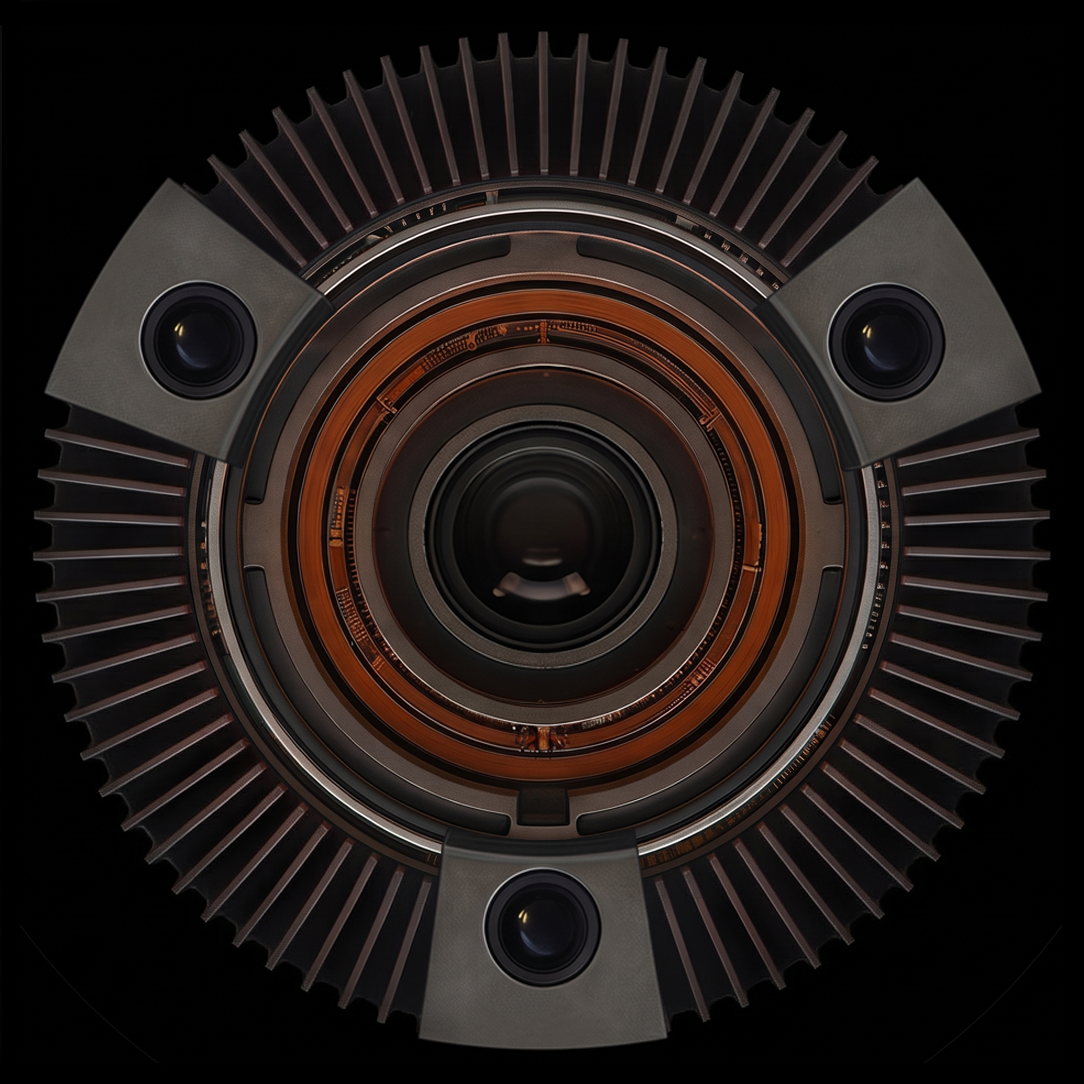
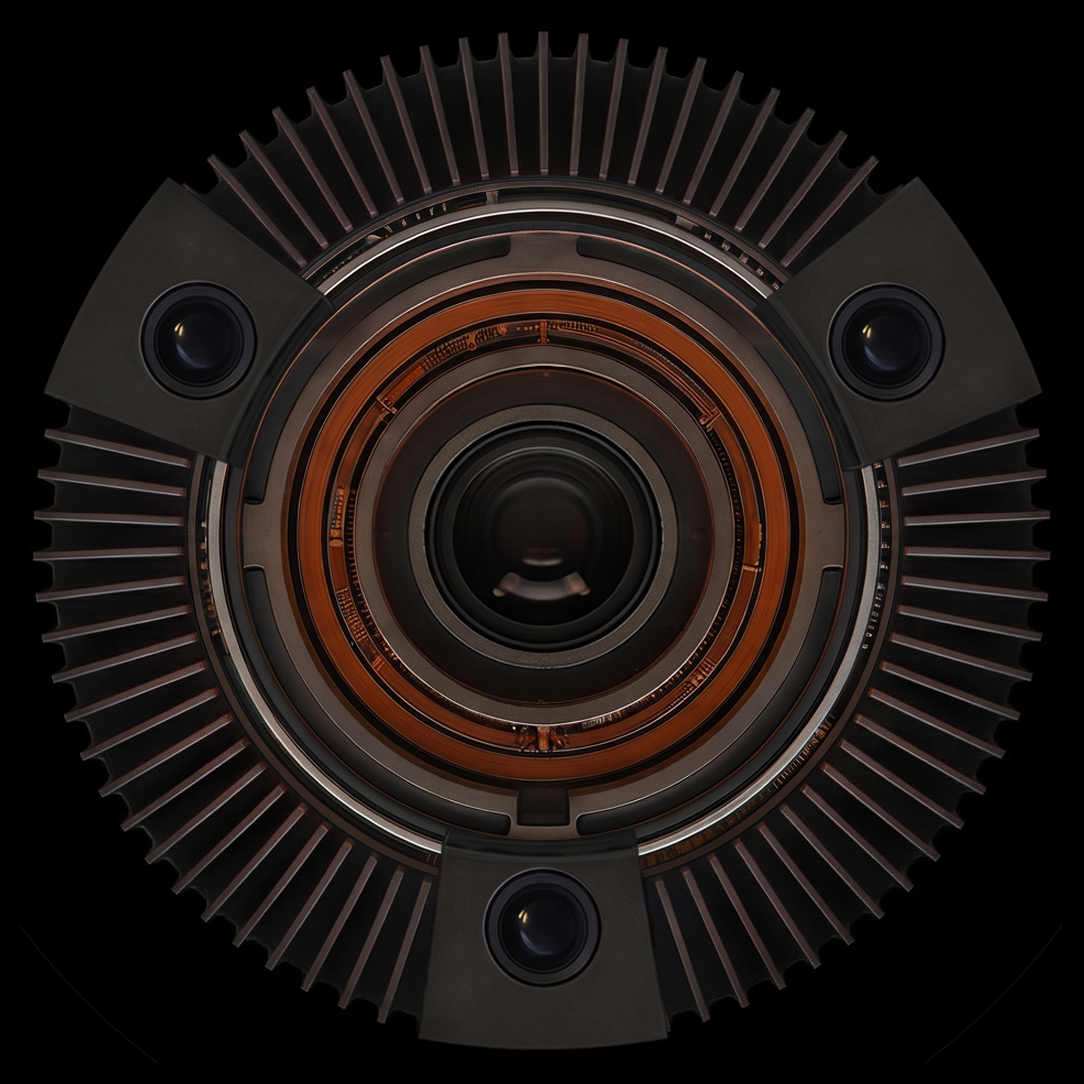
feat: update hal2026_everything_off.png in public & dist, add cache-busting query parameter to force browser refresh

Changed region(s): [[0.7002, 0.1522, 0.9742, 0.4262], [0.3653, 0.7611, 0.6089, 0.9742], [0.0304, 0.1522, 0.3044, 0.4262]]

diff --git a/frontend/dist/index.html b/frontend/dist/index.html
@@ -47,7 +47,7 @@
       <div id="hal-container">
         <!-- HAL 2026 3D Multi-Layer Optical Assembly -->
         <div id="hal-2026-assembly">
-          <img id="layer-everything-off" class="hal2026-layer" src="/hal2026/hal2026_everything_off.png" alt="" draggable="false" />
+          <img id="layer-everything-off" class="hal2026-layer" src="/hal2026/hal2026_everything_off.png?v=2" alt="" draggable="false" />
           <img id="layer-3-led-on" class="hal2026-layer" src="/hal2026/hal2026_3_led_on.png" alt="" draggable="false" />
           <img id="layer-center-on" class="hal2026-layer" src="/hal2026/hal2026_center_on.png" alt="" draggable="false" />
           <img id="layer-ring-on" class="hal2026-layer" src="/hal2026/hal2026_ring_on.png" alt="" draggable="false" />

diff --git a/frontend/index.html b/frontend/index.html
@@ -46,7 +46,7 @@
       <div id="hal-container">
         <!-- HAL 2026 3D Multi-Layer Optical Assembly -->
         <div id="hal-2026-assembly">
-          <img id="layer-everything-off" class="hal2026-layer" src="/hal2026/hal2026_everything_off.png" alt="" draggable="false" />
+          <img id="layer-everything-off" class="hal2026-layer" src="/hal2026/hal2026_everything_off.png?v=2" alt="" draggable="false" />
           <img id="layer-3-led-on" class="hal2026-layer" src="/hal2026/hal2026_3_led_on.png" alt="" draggable="false" />
           <img id="layer-center-on" class="hal2026-layer" src="/hal2026/hal2026_center_on.png" alt="" draggable="false" />
           <img id="layer-ring-on" class="hal2026-layer" src="/hal2026/hal2026_ring_on.png" alt="" draggable="false" />
